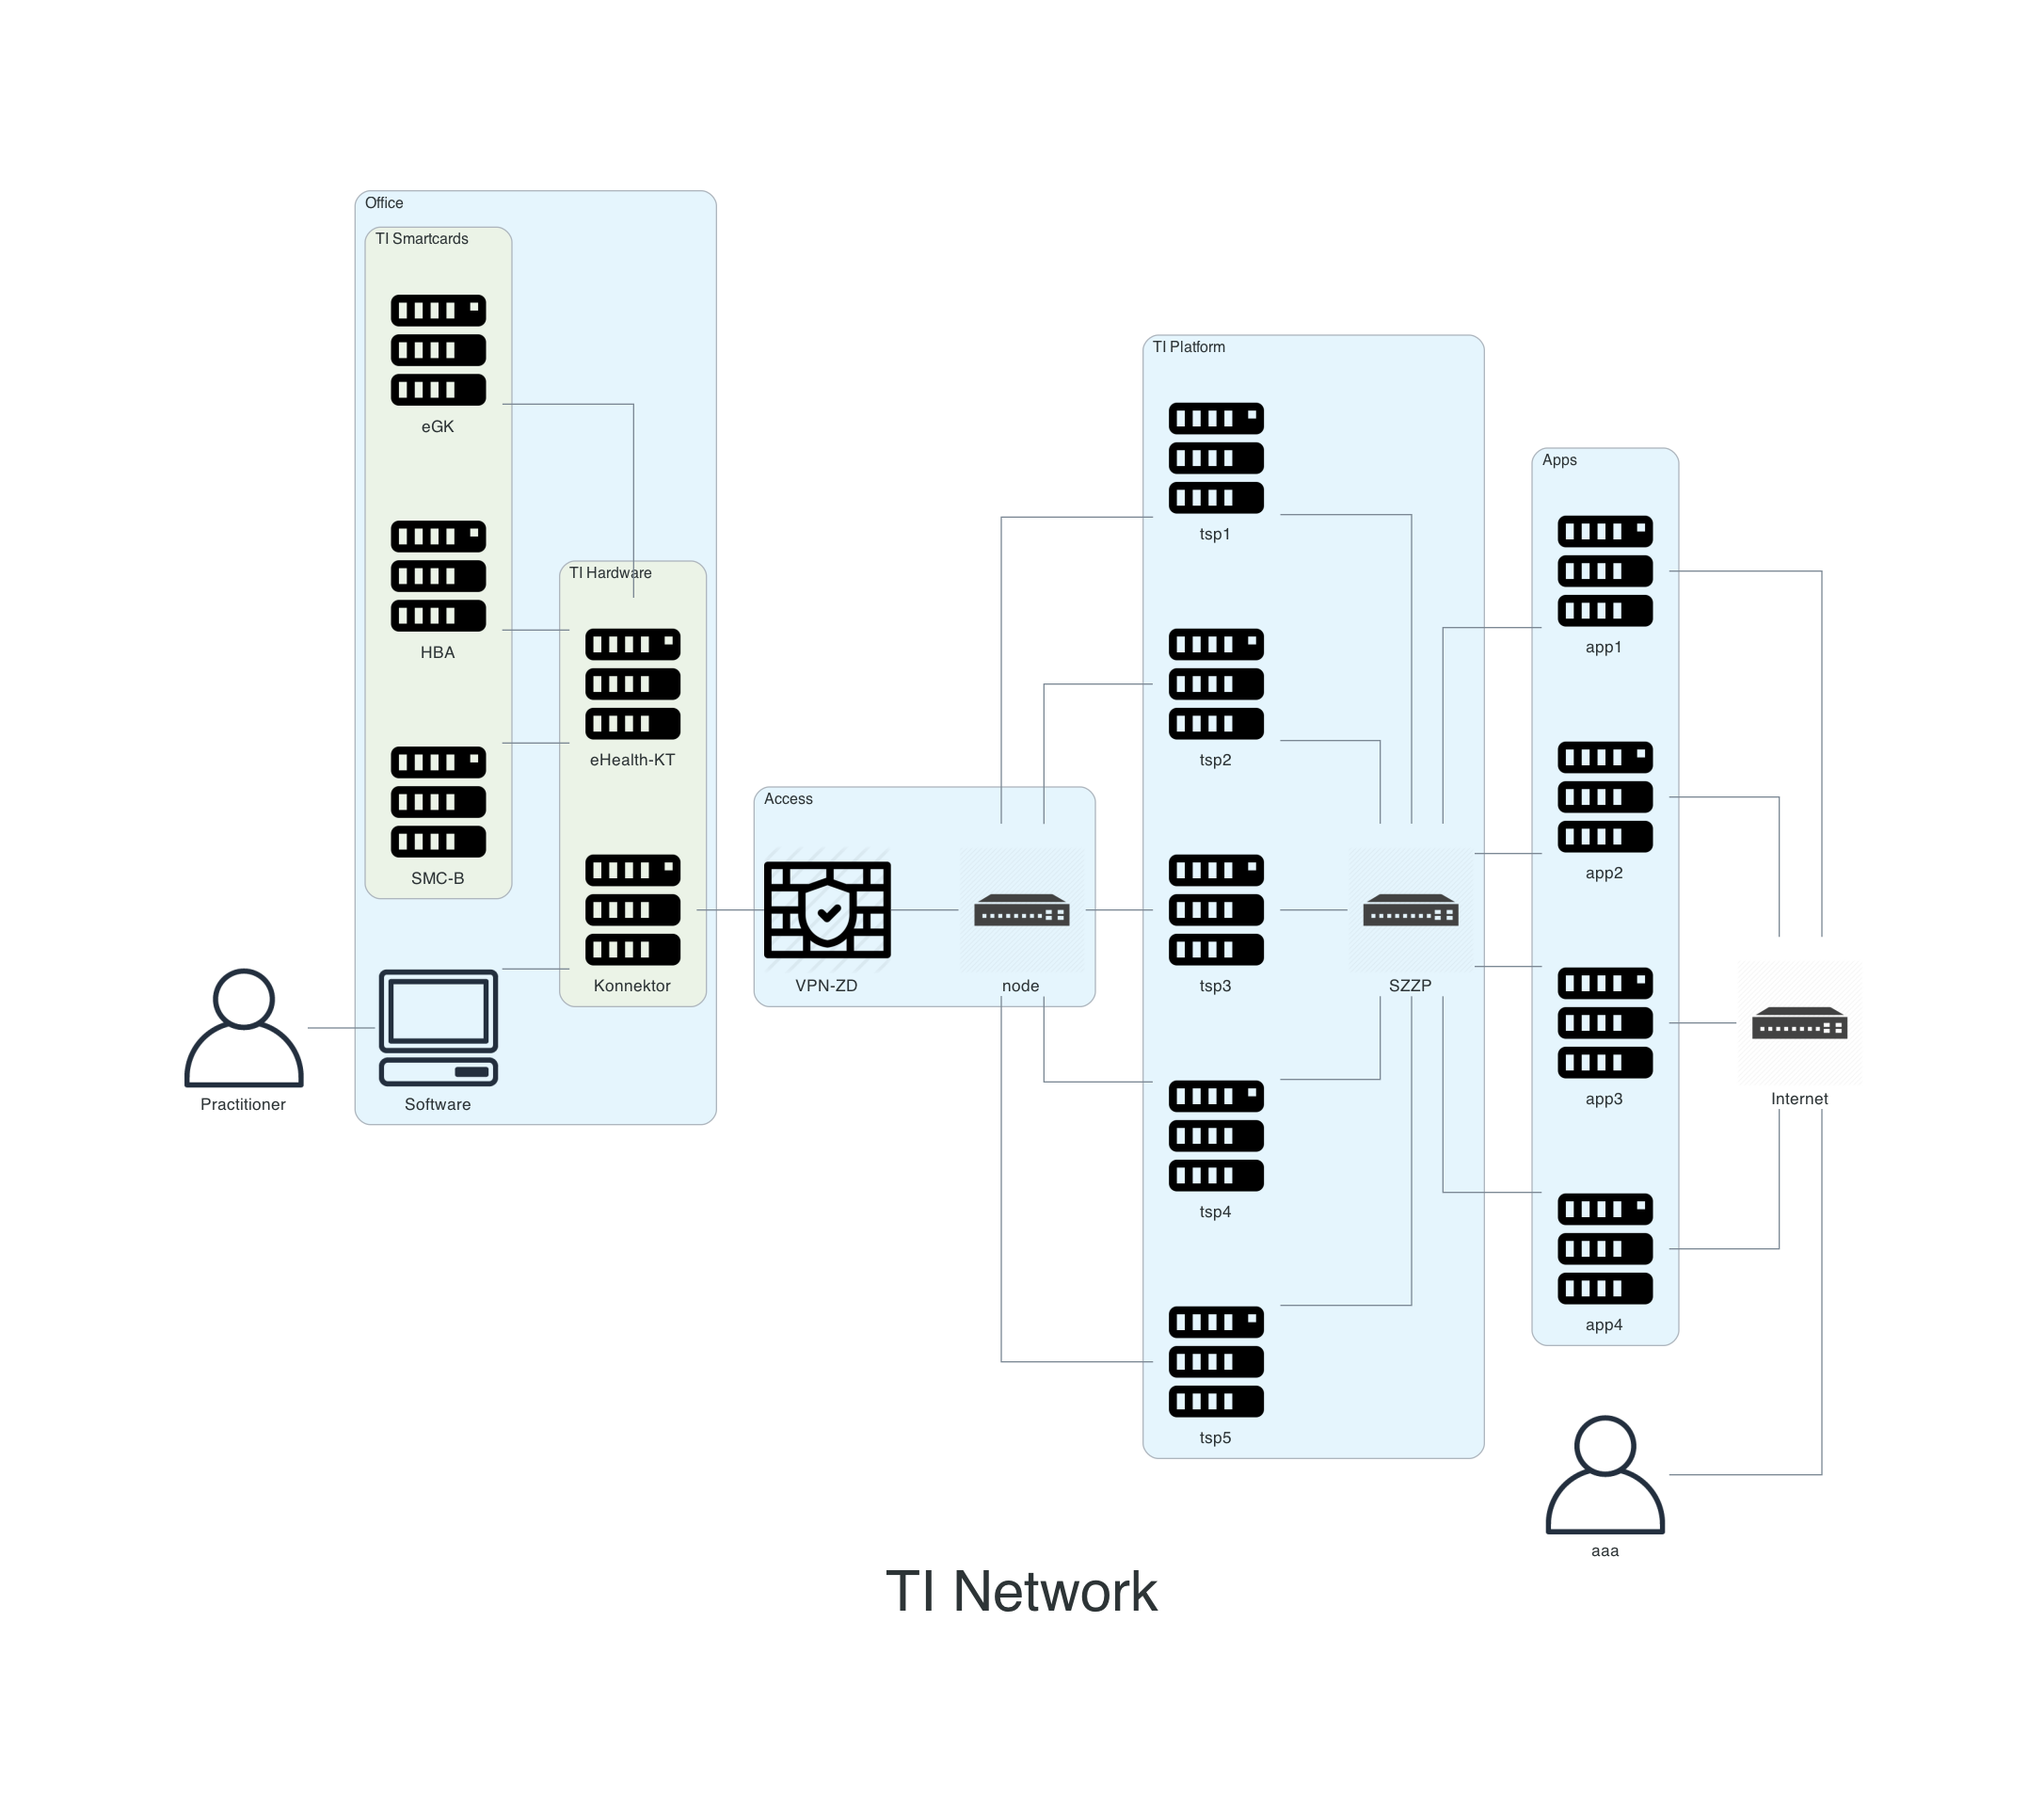
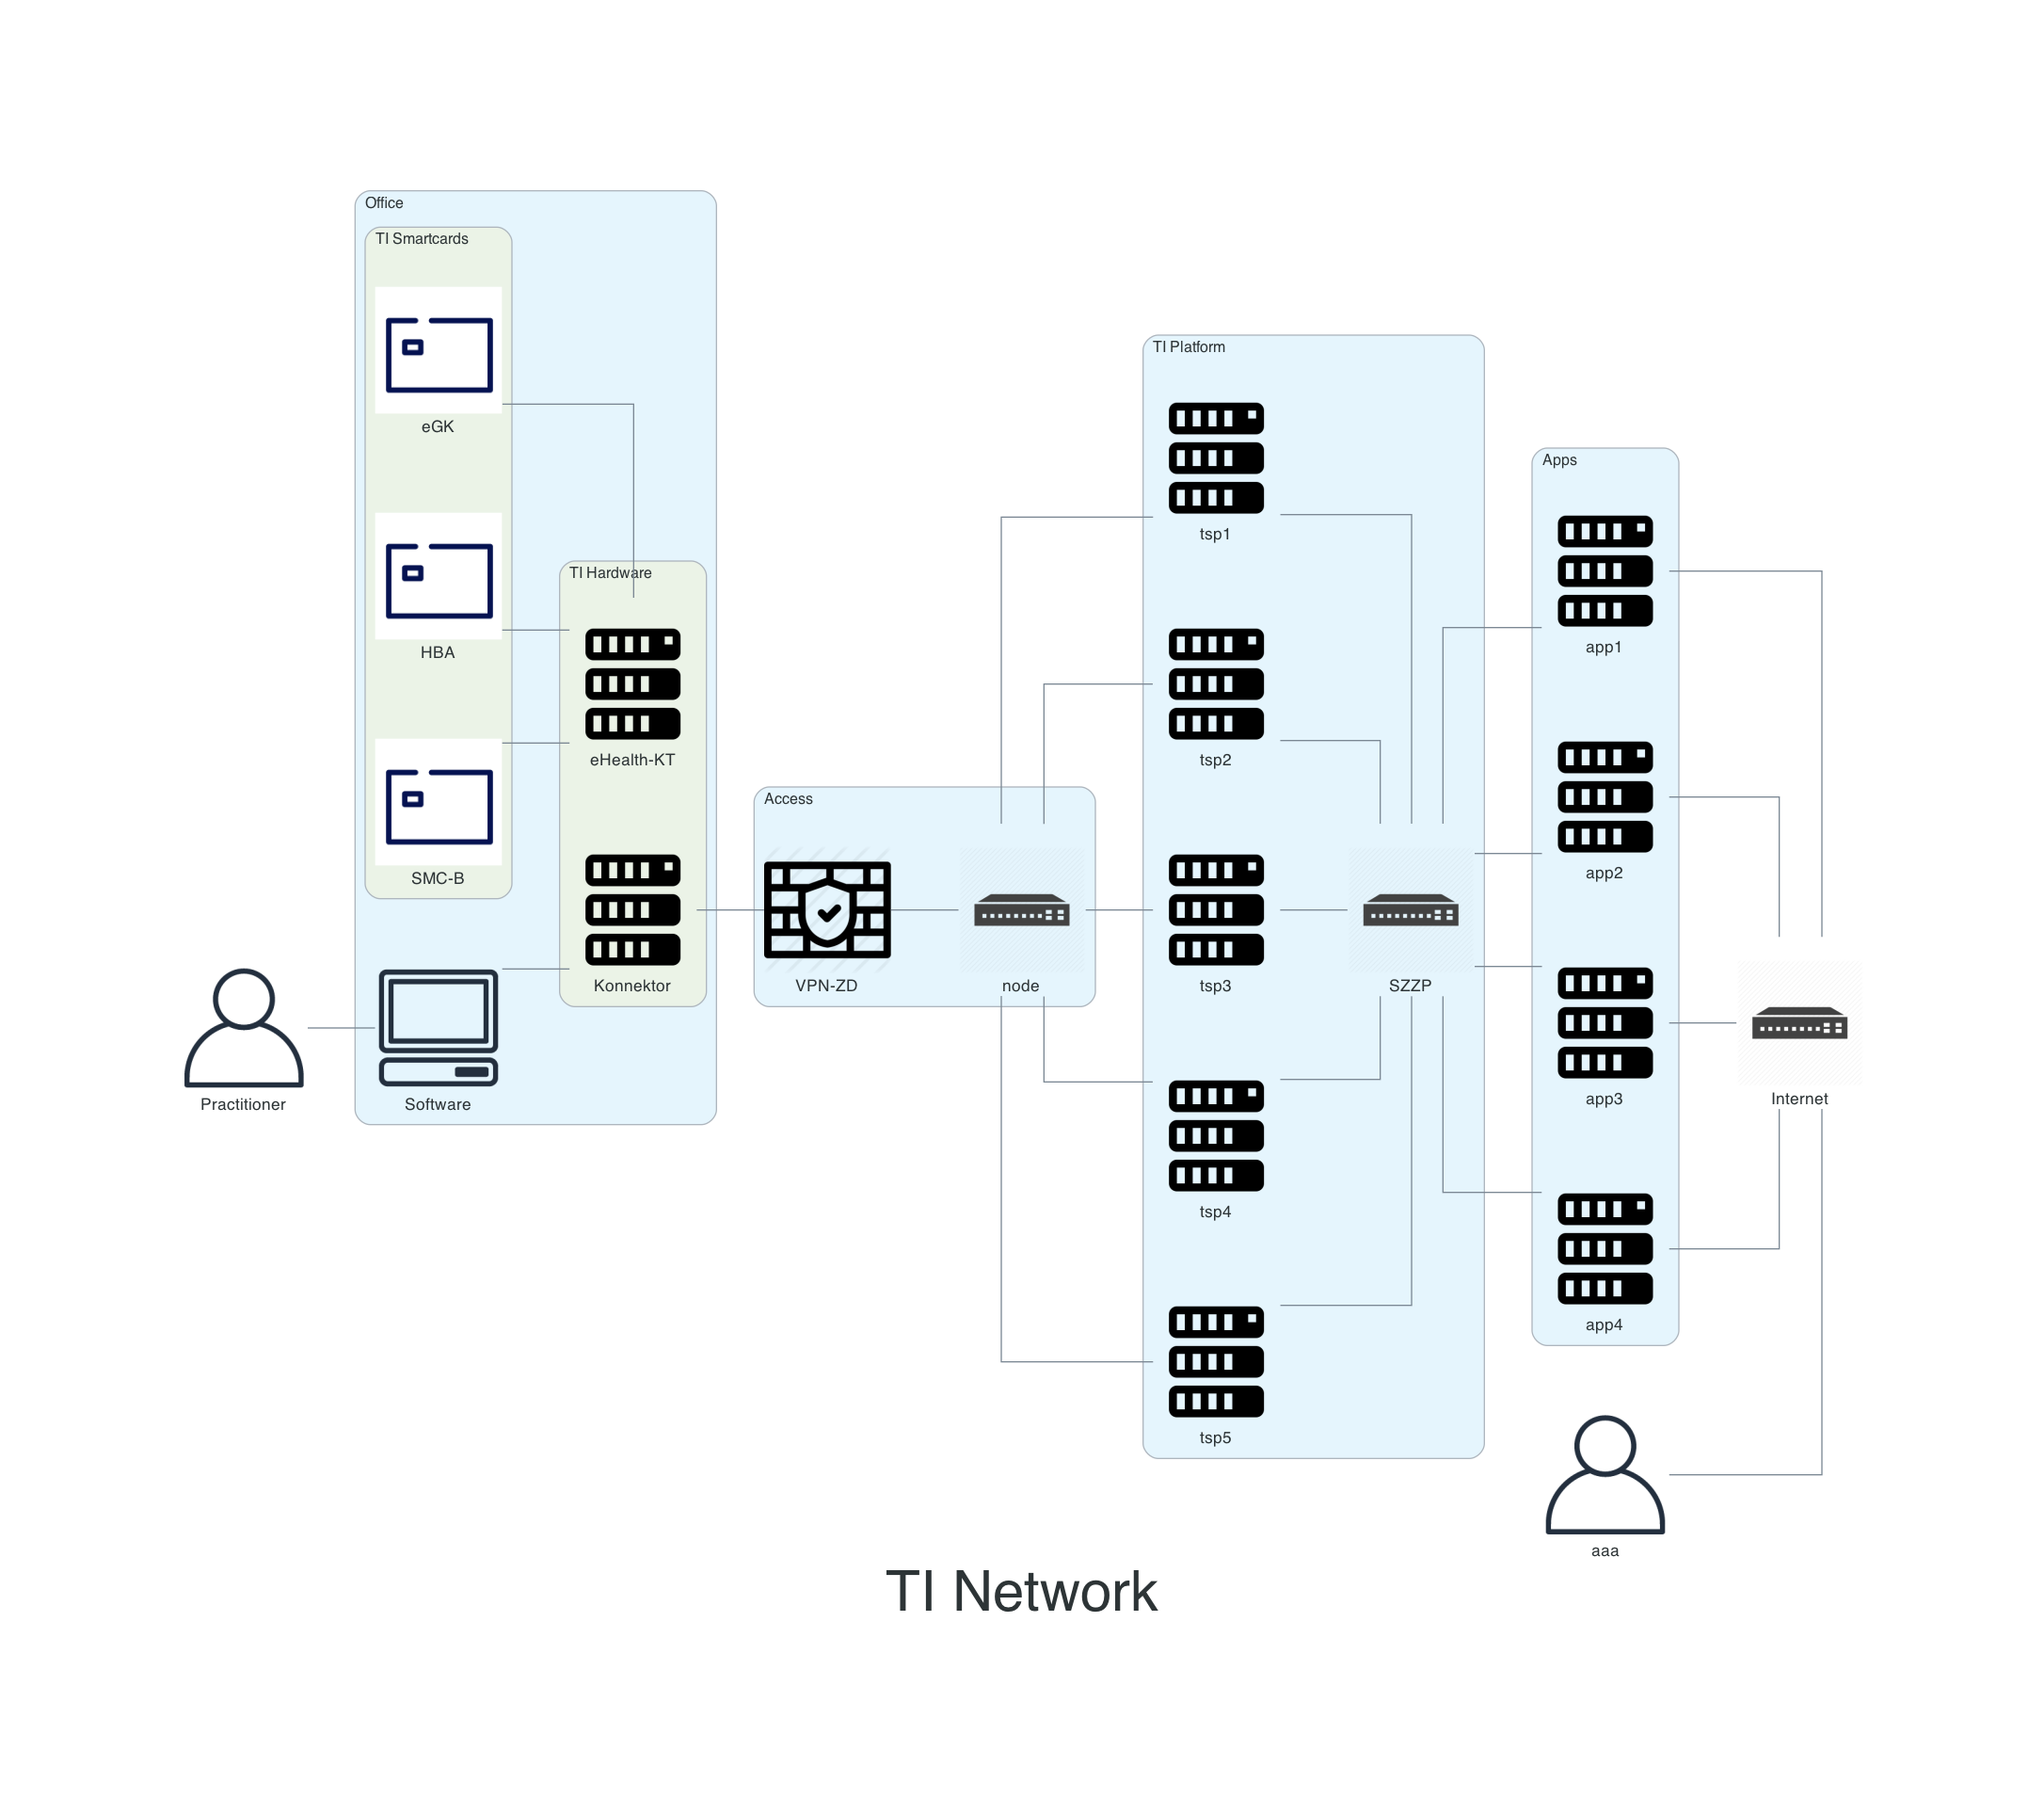
Update diagrams

Changed region(s): [[0.1851, 0.4048, 0.2468, 0.4982], [0.1851, 0.2802, 0.2468, 0.3736], [0.1851, 0.1557, 0.2468, 0.2491]]

diff --git a/gematik/apitools/diagrams.py b/gematik/apitools/diagrams.py
@@ -31,9 +31,9 @@ def diagrams():
     with Cluster("Office"):
       pvs = Client("Software")
       with Cluster("TI Smartcards"):
-        egk = Server("eGK")
-        hba = Server("HBA")
-        smcb = Server("SMC-B")
+        egk = Custom("eGK", "./images/icons/smartcard.png")
+        hba = Custom("HBA", "./images/icons/smartcard.png")
+        smcb = Custom("SMC-B", "./images/icons/smartcard.png")
       with Cluster("TI Hardware"):
         kon = Server("Konnektor")
         kt = Server("eHealth-KT")
